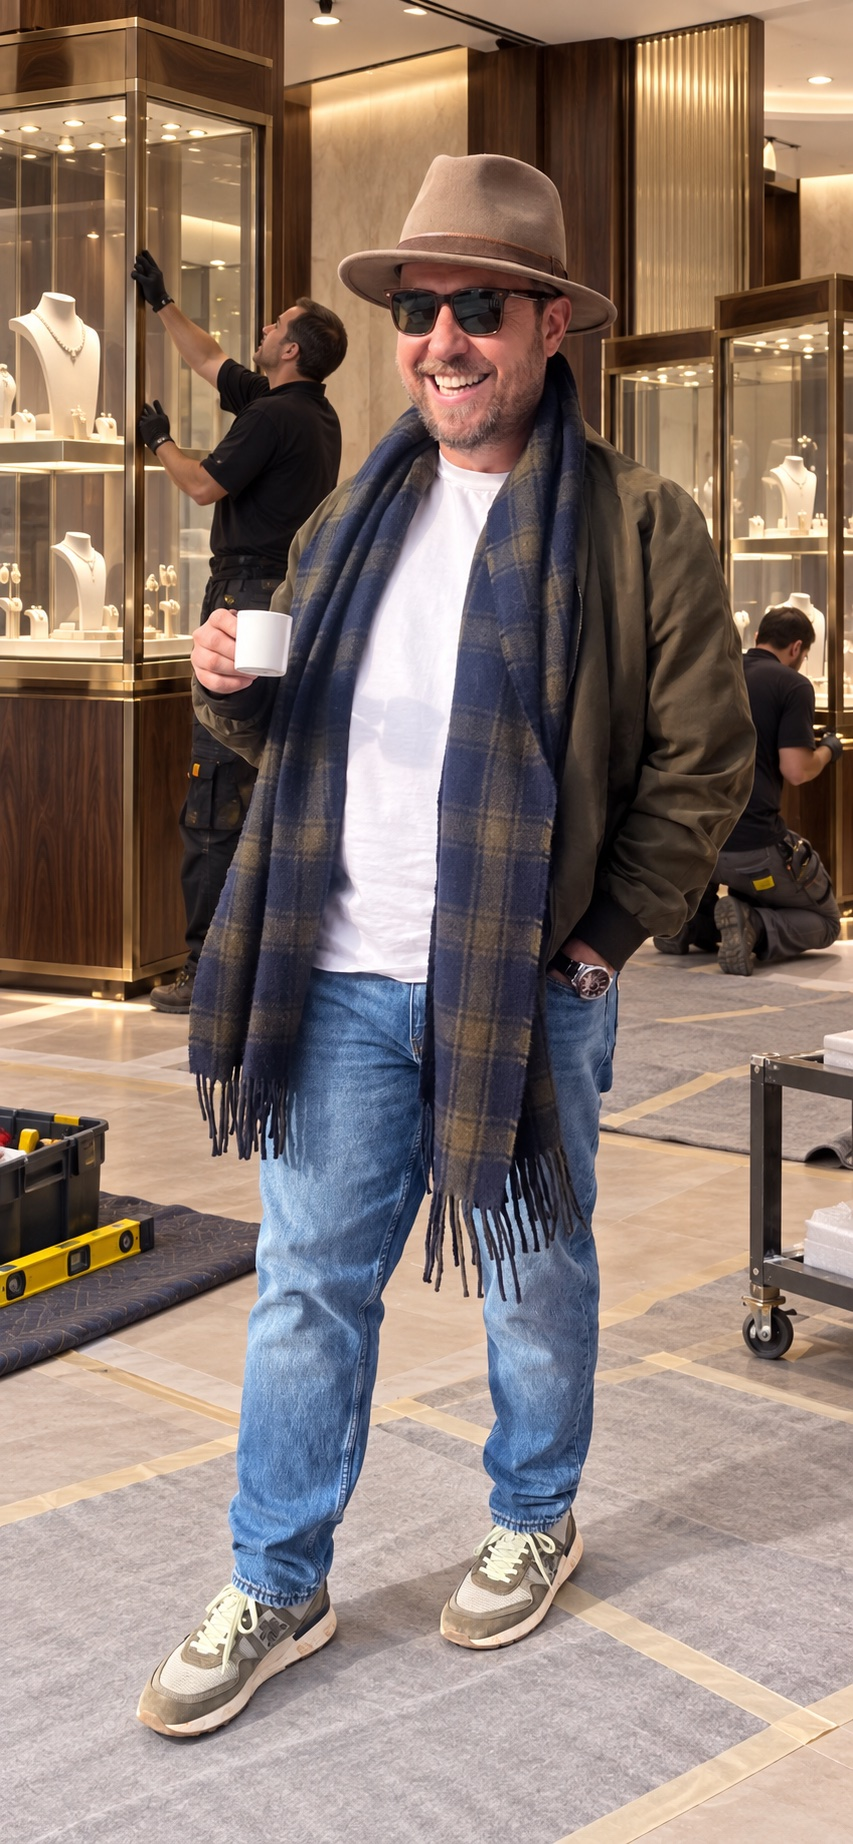
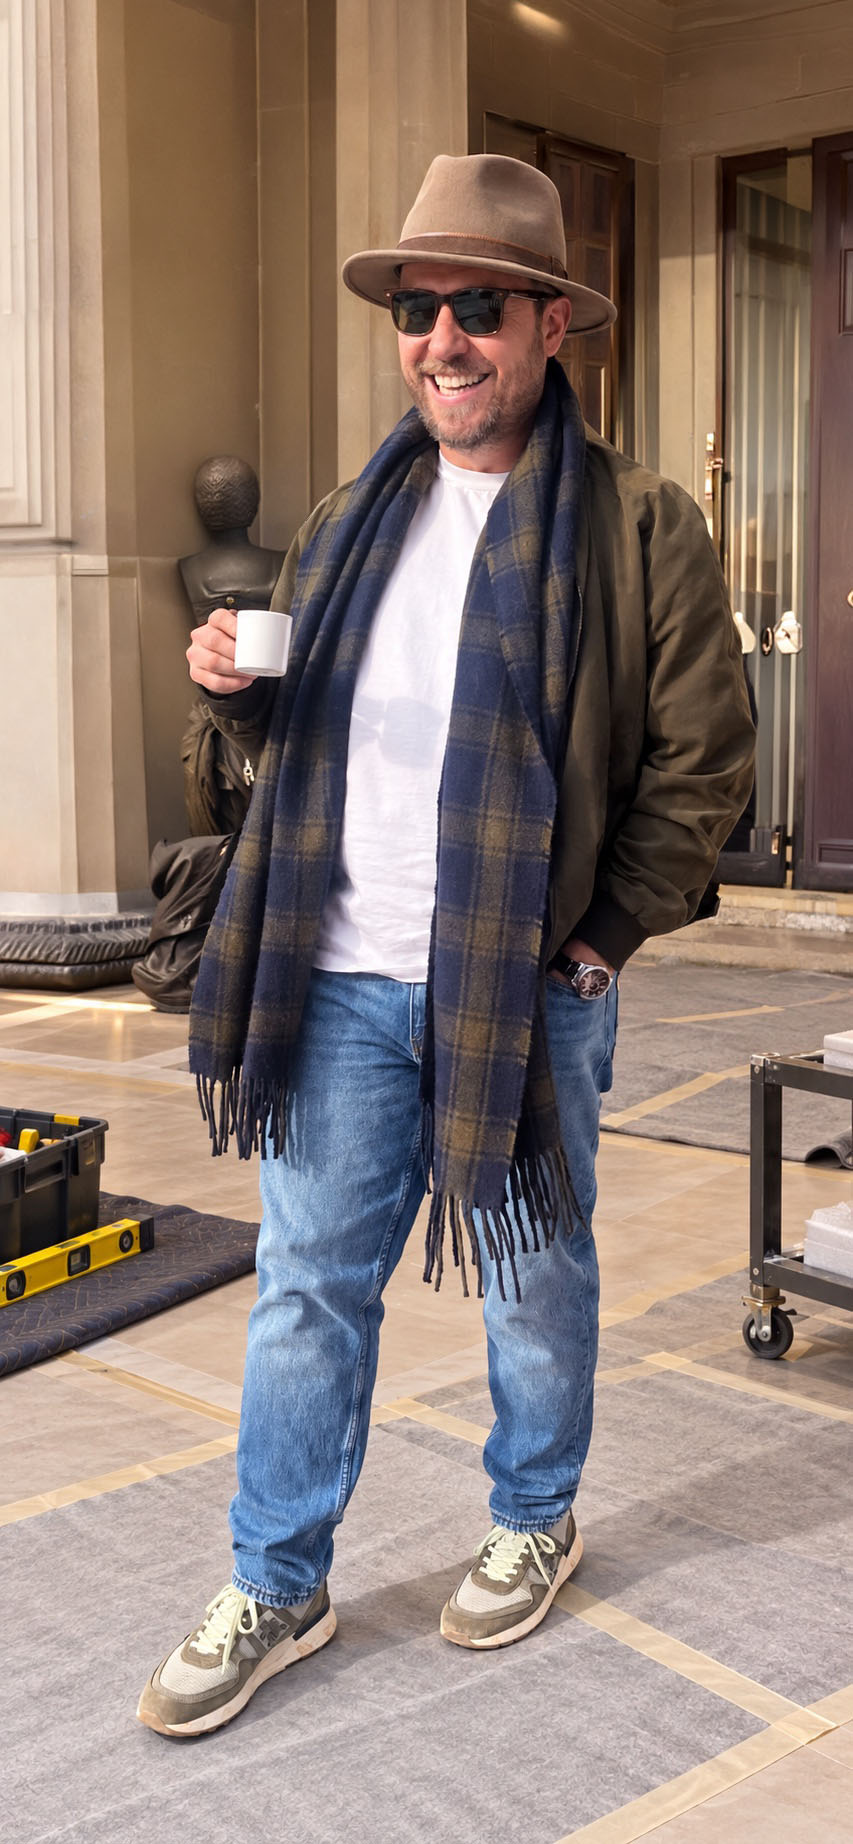
Refresh FAQ around the production process, trim project roster, add products
- Replace the six architecture-practice FAQs with six new ones covering
  the "design-without-memories" AI-to-production process; show all of
  them on the homepage instead of the top four
- Remove Izmir Courtyard House and Ankara Furniture Showroom; retitle
  Antalya Hillside Villas to Boutique Eyewear Store with a new hero
  image and copy
- Add Twisted Steel Desk Sculpture product (hero + fabrication
  drawing); add a technical drawing to Kesit Side Table and correct
  its leg count from five to four
- Remove the Founded/Projects delivered/Cities/Team stats block and
  location/date labels from the About and homepage project cards
- Update the About page photo

Changed region(s): [[0.0, 0.0, 1.0, 0.5564], [0.4267, 0.1855, 0.4877, 0.2473]]

diff --git a/src/content/interior-projects/boutique-eyewear-store.md b/src/content/interior-projects/boutique-eyewear-store.md
@@ -1,0 +1,16 @@
+---
+title: "Boutique Eyewear Store"
+city: "Antalya"
+cityTr: "Antalya"
+year: 2024
+category: "Commercial"
+area: "140 m²"
+summary: "A contemporary eyewear boutique in oak and stone, where backlit shelving turns the product display into the room's main light source."
+featured: false
+order: 6
+heroImage: "/images/interior-projects/boutique-eyewear-store/boutique-eyewear-store.jpg"
+---
+
+Backlit oak shelving runs the full length of both side walls, so the frames themselves — not overhead fixtures — carry most of the room's light. A run of mirrored panels between the bays doubles the depth of the display without widening the floor plan.
+
+At the centre of the room, an oval stone plinth holds the case for the collection's key pieces, angled so it reads as a single object from the entrance rather than a counter. Warm oak, pale stone and soft daylight from the rear window keep the space closer to a residential interior than a typical retail fit-out.

diff --git a/src/content/products/twisted-steel-desk-sculpture.md b/src/content/products/twisted-steel-desk-sculpture.md
@@ -1,0 +1,15 @@
+---
+title: "Twisted Steel Desk Sculpture"
+category: "Object"
+material: "Stainless steel (SUS 304), cast concrete base"
+year: 2025
+summary: "Three hand-formed stainless steel rods twisting upward from a cast concrete base, sized for a desk or console."
+featured: false
+order: 14
+heroImage: "/images/products/twisted-steel-desk-sculpture.jpg"
+detailImage: "/images/products/twisted-steel-desk-sculpture-technical.jpg"
+---
+
+Three solid 12mm square-section steel rods are hand-formed into a single curving, interlaced form, welded to an internal anchoring plate and set into a cast concrete base — no visible fixings above the surface.
+
+The rods are eased at every edge and ground flush at the weld lines, so the piece reads as one continuous gesture in brushed steel rather than three separate elements. The concrete base is left with a fine, undressed architectural finish, deliberately plainer than the sculpture it supports.

diff --git a/src/content/faq/how-does-the-process-work.md b/src/content/faq/how-does-the-process-work.md
@@ -1,0 +1,16 @@
+---
+question: "How does the \"design-without-memories\" process work, and when can I receive my product?"
+order: 2
+---
+
+The process consists of five stages.
+
+In the first stage, share an image of the desired product—whether it is a painting, sculpture, piece of furniture, or a space—with us.
+
+In the second stage, we will contact you via email or phone. We will respond within two business days with a production schedule and a price quote.
+
+The third stage is crucial because, following the receipt of the down payment, technical details—such as detailed drawings, material selections, colors, and textures—are finalized through an online or in-person meeting.
+
+The fourth stage involves the production process (after the quoted amount has been paid).
+
+In the fifth stage, the product or completed space is delivered (and the remaining balance of the quoted amount is paid).

diff --git a/src/content/products/marble-side-table.md b/src/content/products/marble-side-table.md
@@ -3,10 +3,11 @@ title: "Kesit Side Table"
 category: "Furniture"
 material: "Solid travertine"
 year: 2023
-summary: "A round travertine coffee table on five cylindrical legs, cut from offcuts of a project's own stone specification."
+summary: "A round travertine coffee table on four cylindrical legs, cut from offcuts of a project's own stone specification."
 featured: true
 order: 1
 heroImage: "/images/products/kesit-side-table.jpg"
+detailImage: "/images/products/kesit-side-table-technical.jpg"
 ---
 
 Designed while specifying stone for a residential project, this table takes its round top and cylindrical legs from the same travertine block used on site — cut, not carved, so the natural bedding lines of the stone stay legible across every surface.

diff --git a/src/content/faq/advantage-of-design-without-memories.md b/src/content/faq/advantage-of-design-without-memories.md
@@ -1,0 +1,6 @@
+---
+question: "What is the advantage of the \"design-without-memories\" principle?"
+order: 6
+---
+
+It enables results to be achieved through a much faster design process compared to traditional design methods. Because they are "without memories"—meaning they lack a prior history—production times for these products and spaces vary. You should contact us to find out specific production timelines.

diff --git a/src/content/faq/assessing-material-quality.md b/src/content/faq/assessing-material-quality.md
@@ -1,0 +1,6 @@
+---
+question: "How can I assess the material quality of the products?"
+order: 3
+---
+
+Technical production details will be shared with you to finalize the texture, color, dimensions, and material quality of the product or space. Depending on the production complexity of the item or space, these details will be finalized through either a face-to-face or online meeting.

diff --git a/src/content/faq/were-all-images-ai-generated.md b/src/content/faq/were-all-images-ai-generated.md
@@ -1,0 +1,6 @@
+---
+question: "Were all the images created using artificial intelligence?"
+order: 5
+---
+
+Yes, all images were created using artificial intelligence. Since there was no human intervention during the design phase, more time could be dedicated to the actual execution phase. The final pieces are crafted by real people using skilled craftsmanship.

diff --git a/src/content/faq/what-does-design-without-memories-do.md b/src/content/faq/what-does-design-without-memories-do.md
@@ -1,0 +1,6 @@
+---
+question: "What does a studio operating on the \"design-without-memories\" principle do?"
+order: 1
+---
+
+It physically brings to life products, artworks, or decorative elements that have been visualized using artificial intelligence (whether by you or by us).

diff --git a/src/content/faq/technical-production-drawings.md b/src/content/faq/technical-production-drawings.md
@@ -1,0 +1,6 @@
+---
+question: "Will technical production drawings be created for every space or product?"
+order: 4
+---
+
+Yes, technical drawings will be prepared to finalize every detail before moving to the production stage.
